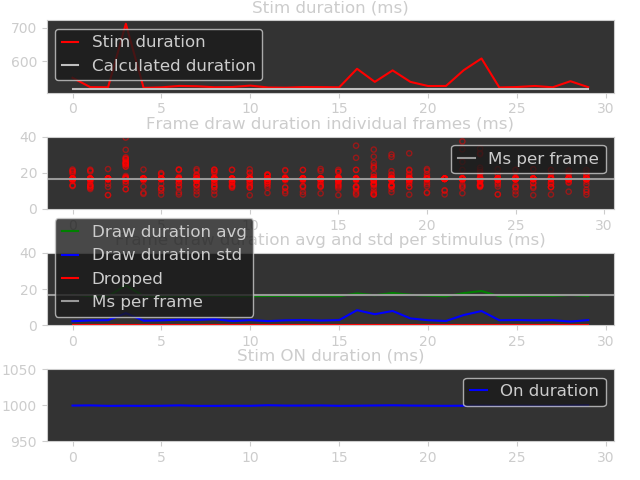
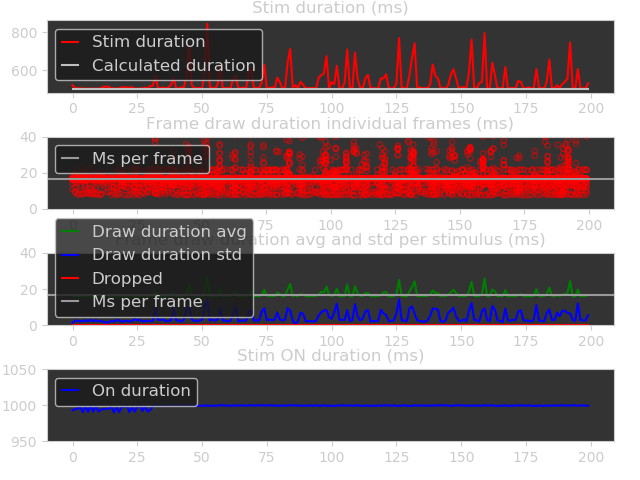
sync with pc

diff --git a/benchmark_results_analysis.py b/benchmark_results_analysis.py
@@ -26,7 +26,7 @@ def plot_benchmark_results(results):
     axarr[0].plot([x*results['Ms per frame'] for x in results['Number frames per stim']],
                   color=[0.75, 0.75, 0.75], label='Calculated duration')
 
-    axarr[1].set(title='Frame draw duration individual frames (ms)', ylim=[0, 40])
+    axarr[1].set(title='Frame draw duration individual frames (ms)', ylim=[0, np.max(results['Draw duration all'])+5])
     xx = [np.ones(len(x))*idx for idx,x in enumerate(results['Draw duration all'])]
 
     for num in range(len(xx)):
